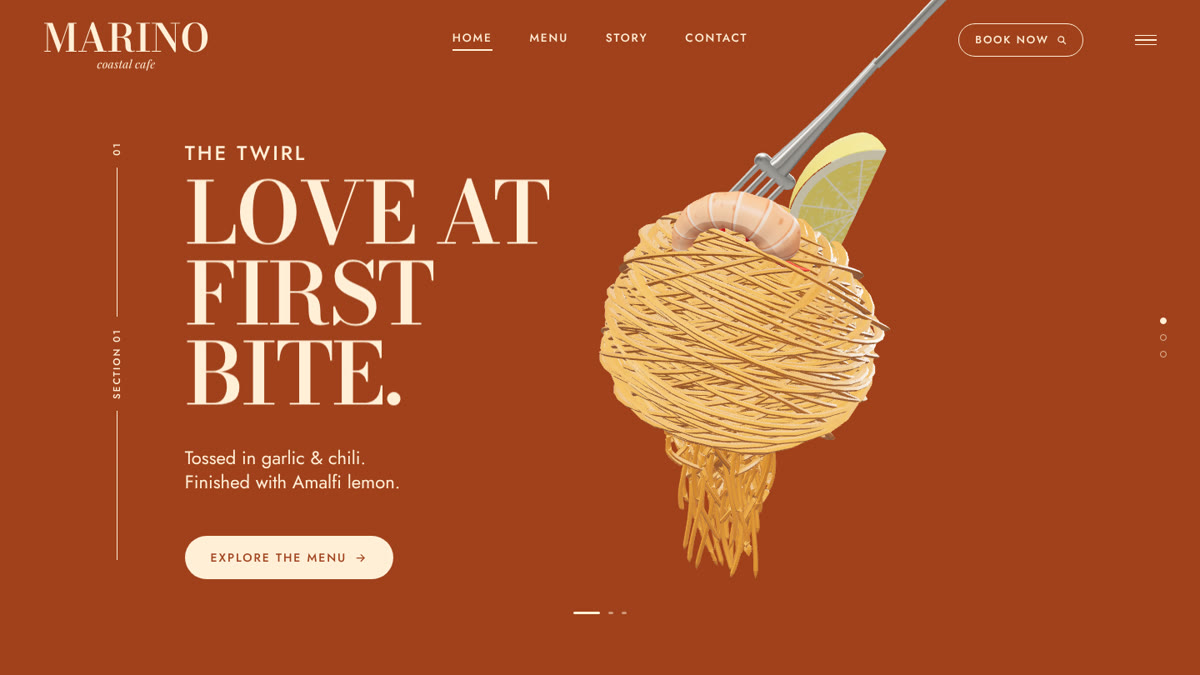
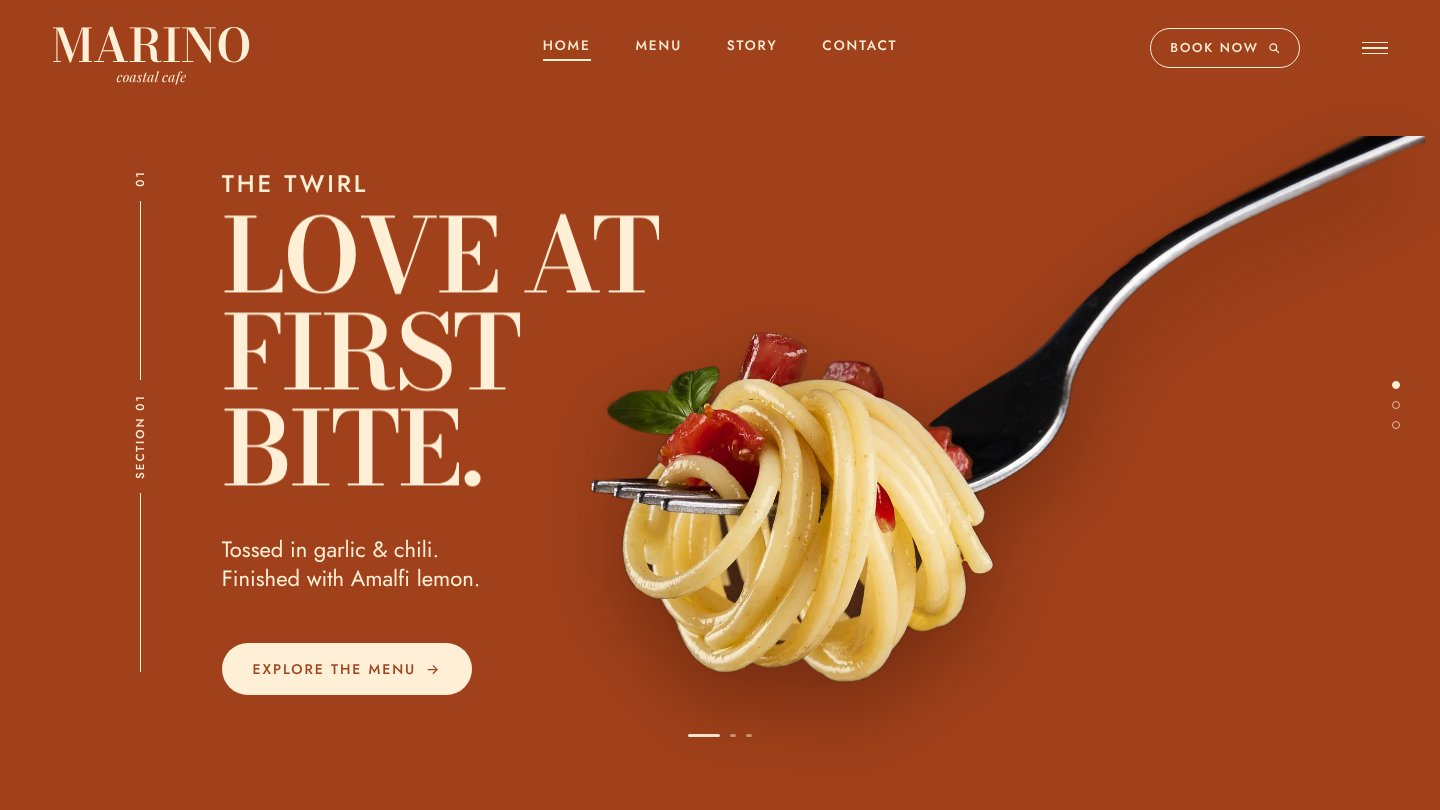
Use real food photos for the hero, ingredients and plate
- Hero: cut-out photo of spaghetti twirled on a fork, crossfading into the 3D spiral
- Ingredient dance: photo cut-outs (prawns, lemon, chili, basil, garlic,
  parmesan, tomato) that follow the hidden 3D ingredients' choreography and
  swap behind the canvas when they pass behind the spiral
- Finale: plated shrimp pasta photo rises in as the spiral collapses
- Free Pexels photos, backgrounds removed with rembg, served as WebP
- Refresh preview screenshots and README credits

Claude-Session: https://claude.ai/code/session_01M4CF9GnhnwfkbJ78EoQsJo

Changed region(s): [[0.4008, 0.0, 0.9867, 0.8711], [0.8325, 0.0311, 0.8633, 0.0622]]

diff --git a/src/main.js b/src/main.js
@@ -9,6 +9,9 @@ import { ScrollTrigger } from 'gsap/ScrollTrigger';
 import Lenis from 'lenis';
 import { createScene, range, BEATS } from './three/scene.js';
 
+const photoUrls = import.meta.glob('./assets/img/*.webp', { eager: true, import: 'default' });
+const photo = (name) => photoUrls[`./assets/img/${name}.webp`];
+
 gsap.registerPlugin(ScrollTrigger);
 
 const $ = (s, el = document) => el.querySelector(s);
@@ -50,6 +53,7 @@ window.addEventListener('resize', () => {
 /* ------------------------------------------------------------------ */
 
 const intro = { v: 0 };
+const heroIntro = { v: 0 };
 
 function playIntro() {
   document.body.classList.remove('is-loading');
@@ -67,7 +71,7 @@ function playIntro() {
     .from('.hero__rail-line', { scaleY: 0, duration: 1.0, stagger: 0.12, ease: 'power2.inOut' }, 0.3)
     .from('.hero__rail span:not(.hero__rail-line)', { opacity: 0, duration: 0.6 }, 0.5)
     .fromTo('.hero__title .line > span', { yPercent: 105 }, { yPercent: 0, duration: 1.0, stagger: 0.12, ease: 'power4.out' }, 0.35)
-    .fromTo(canvas, { opacity: 0, filter: 'blur(14px)' }, { opacity: 1, filter: 'blur(0px)', duration: 1.3, ease: 'power2.out', clearProps: 'filter' }, 0.3)
+    .to(heroIntro, { v: 1, duration: 1.3, ease: 'power2.out' }, 0.3)
     .to(intro, { v: 1, duration: 1.6, ease: 'power3.out' }, 0.3)
     .from('.hero__lede', { opacity: 0, y: 16, filter: 'blur(6px)', duration: 0.8 }, 0.85)
     .from('.hero .pill', { opacity: 0, y: 16, filter: 'blur(6px)', duration: 0.8 }, 0.98)
@@ -101,7 +105,108 @@ const labels = $$('.label').map((el) => {
   return { el, path, side: el.dataset.side, target: el.dataset.target };
 });
 
-const css = (el, props) => Object.assign(el.style, props);
+/* Photo cut-outs ---------------------------------------------------- */
+
+const heroPhoto = $('.photo-hero');
+heroPhoto.src = photo('hero-twirl');
+const plateWrap = $('.photo-plate');
+$('img', plateWrap).src = photo('plate');
+const layers = { front: $('.photos--front'), back: $('.photos--back') };
+
+/**
+ * Which photo stands in for each 3D ingredient (in creation order per kind).
+ * w = width in the ingredient's local units, rot = base rotation (deg), flip = mirror.
+ */
+const SPRITES = {
+  shrimp: [
+    null, // the top shrimp sits out; three identical prawn stacks read as copy-paste
+    { src: 'prawns', w: 0.72, rot: 12, flip: true },
+    { src: 'prawns', w: 0.56, rot: -28 },
+  ],
+  lemon: [{ src: 'lemon', w: 0.72, rot: -18 }],
+  chili: [
+    { src: 'chili-2', w: 0.62, rot: -10 },
+    { src: 'chili', w: 0.48, rot: 35 },
+    { src: 'chili-2', w: 0.5, rot: 140, flip: true },
+  ],
+  tomato: [
+    { src: 'tomato', w: 0.34, rot: 0 },
+    { src: 'tomato', w: 0.3, rot: 40 },
+    { src: 'tomato', w: 0.28, rot: -30 },
+  ],
+  garlic: [
+    { src: 'garlic', w: 0.42, rot: 10 },
+    { src: 'garlic', w: 0.3, rot: -25 },
+  ],
+  basil: [
+    { src: 'basil', w: 0.55, rot: -20 },
+    { src: 'basil-2', w: 0.34, rot: 25 },
+  ],
+  parmesan: [{ src: 'parmesan', w: 0.5, rot: -12 }],
+};
+const SPRITE_PX = 200; // base CSS width; each frame scales from this
+
+const kindCount = {};
+const sprites = scene.screenSprites().map((sp) => {
+  const n = (kindCount[sp.kind] = (kindCount[sp.kind] ?? -1) + 1);
+  const cfg = SPRITES[sp.kind]?.[n];
+  if (!cfg) return null;
+  const img = new Image();
+  img.src = photo(cfg.src);
+  img.alt = '';
+  img.decoding = 'async';
+  img.className = 'sprite';
+  img.style.width = `${SPRITE_PX}px`;
+  layers.front.appendChild(img);
+  return { img, cfg, front: true };
+});
+
+function updatePhotos(p, time) {
+  // 01 · hero forkful: lifts, swells and dissolves into the 3D spiral
+  const heroGo = ease(range(p, 0.015, 0.09));
+  const bob = Math.sin(time * 0.9) * 6 * (1 - heroGo);
+  const blur = (1 - heroIntro.v) * 14 + heroGo * 8;
+  css(heroPhoto, {
+    opacity: heroIntro.v * (1 - heroGo),
+    visibility: heroGo >= 1 ? 'hidden' : '',
+    filter: blur > 0.05 ? `blur(${blur}px)` : '',
+    transform: `translate3d(0, calc(-50% + ${bob - heroGo * 120 + (1 - heroIntro.v) * 30}px), 0) rotate(${heroGo * -14}deg) scale(${1 + heroGo * 0.35})`,
+  });
+
+  // The 3D spiral only lives between the hero and the plate
+  const glIn = range(p, 0.06, 0.13);
+  const glOut = range(p, 0.64, 0.71);
+  canvas.style.opacity = Math.min(glIn, 1 - glOut);
+
+  // 02 · ingredient cut-outs ride the 3D choreography
+  const alpha = ease(range(p, 0.1, 0.2)) * (1 - range(p, 0.63, 0.7));
+  const poses = scene.screenSprites();
+  sprites.forEach((s, i) => {
+    if (!s) return;
+    const sp = poses[i];
+    if (alpha <= 0.001 || sp.px <= 0.01) {
+      s.img.style.opacity = 0;
+      return;
+    }
+    if (sp.front !== s.front) {
+      s.front = sp.front;
+      (s.front ? layers.front : layers.back).appendChild(s.img);
+    }
+    const k = (s.cfg.w * sp.px) / SPRITE_PX;
+    const rot = s.cfg.rot + ((sp.rot * 180) / Math.PI) * 0.35 + Math.sin(time * 0.6 + sp.seed * 9) * 4;
+    s.img.style.opacity = alpha;
+    s.img.style.transform = `translate3d(${sp.x}px, ${sp.y}px, 0) translate(-50%, -50%) rotate(${rot}deg) scale(${s.cfg.flip ? -k : k}, ${k})`;
+  });
+
+  // 03 · the plated dish rises in as the spiral collapses
+  const plateIn = ease(range(p, 0.65, 0.8));
+  plateWrap.style.opacity = plateIn;
+  plateWrap.style.transform = `translate(-50%, -50%) translateY(${(1 - plateIn) * 45}vh) rotate(${(1 - plateIn) * -50 + Math.sin(time * 0.25) * 2}deg) scale(${0.8 + plateIn * 0.2})`;
+}
+
+function css(el, props) {
+  Object.assign(el.style, props);
+}
 const pt = { x: 0, y: 0 };
 let lastTheme = '';
 let lastDot = -1;
@@ -185,6 +290,7 @@ gsap.ticker.add((time) => {
   smooth += (progress - smooth) * 0.14;
   if (Math.abs(progress - smooth) < 0.00005) smooth = progress;
   scene.update(smooth, time, intro.v);
+  updatePhotos(smooth, time);
   updateDom(smooth);
 });
 
@@ -199,6 +305,7 @@ window.__marino = {
   },
   skipIntro() {
     intro.v = 1;
+    heroIntro.v = 1;
   },
 };
 

diff --git a/src/style.css b/src/style.css
@@ -75,6 +75,73 @@ ul {
   display: block;
 }
 
+/* ---------- Photo layers ---------- */
+
+.photos {
+  position: fixed;
+  inset: 0;
+  z-index: 2;
+  pointer-events: none;
+  overflow: hidden;
+}
+
+.photos img {
+  display: block;
+  user-select: none;
+}
+
+.photo-hero {
+  position: absolute;
+  left: 41%;
+  top: 50%;
+  width: min(58vw, 118vh);
+  height: auto;
+  transform-origin: 30% 60%;
+  filter: drop-shadow(0 30px 40px rgba(60, 18, 4, 0.45));
+  will-change: transform, opacity;
+}
+
+.photo-plate {
+  position: absolute;
+  left: 50%;
+  top: 52%;
+  width: min(56vh, 78vw);
+  aspect-ratio: 1;
+  opacity: 0;
+  will-change: transform, opacity;
+}
+
+.photo-plate::before {
+  /* soft contact shadow under the plate */
+  content: '';
+  position: absolute;
+  inset: 6% -4% -8% -4%;
+  border-radius: 50%;
+  background: radial-gradient(closest-side, rgba(70, 38, 14, 0.38), rgba(70, 38, 14, 0) 100%);
+  transform: translateY(6%);
+}
+
+.photo-plate img {
+  position: relative;
+  width: 100%;
+  height: 100%;
+  border-radius: 50%;
+  box-shadow:
+    0 0 0 1px rgba(255, 255, 255, 0.6) inset,
+    0 2px 0 rgba(255, 255, 255, 0.7),
+    0 18px 30px -12px rgba(60, 30, 10, 0.35);
+}
+
+.sprite {
+  position: absolute;
+  left: 0;
+  top: 0;
+  height: auto;
+  opacity: 0;
+  will-change: transform, opacity;
+  filter: drop-shadow(0 14px 16px rgba(80, 40, 10, 0.22));
+}
+
 #leaders {
   position: fixed;
   inset: 0;
@@ -605,6 +672,17 @@ ul {
 
   .finale__cta {
     top: 74%;
+  }
+
+  .photo-hero {
+    left: 4%;
+    top: 68%;
+    width: 112vw;
+  }
+
+  .photo-plate {
+    top: 50%;
+    width: 86vw;
   }
 }
 

diff --git a/src/three/scene.js b/src/three/scene.js
@@ -169,7 +169,9 @@ export function createScene(canvas) {
 
       const s = lerp(lerp(keys.H[6], b[6], spreadT), keys.P[6], plateT);
       obj.scale.setScalar(Math.max(0.0001, s));
-      obj.visible = s > 0.001;
+      // Photo cut-outs (DOM) stand in for everything except the chili flakes.
+      obj.visible = s > 0.001 && it.kind === 'flake';
+      it.scale = s;
     }
 
     renderer.render(scene, camera);
@@ -186,5 +188,27 @@ export function createScene(canvas) {
     return out;
   }
 
-  return { update, resize, project };
+  /**
+   * Screen-space pose of every ingredient, for the photo cut-outs.
+   * px = CSS pixels per local unit of the ingredient (dish scale × item scale × perspective).
+   */
+  const sprites = ingredients.items.map((it) => ({ kind: it.kind, x: 0, y: 0, px: 0, rot: 0, front: true, seed: it.seed }));
+  const halfTan = Math.tan(THREE.MathUtils.degToRad(camera.fov / 2));
+  function screenSprites() {
+    const dishZ = dish.getWorldPosition(tmpB).z;
+    ingredients.items.forEach((it, i) => {
+      const sp = sprites[i];
+      it.obj.getWorldPosition(tmpA);
+      const dist = camera.position.z - tmpA.z;
+      sp.front = tmpA.z >= dishZ;
+      sp.px = (dish.scale.x * (it.scale ?? 0) * window.innerHeight) / (2 * dist * halfTan);
+      tmpA.project(camera);
+      sp.x = (tmpA.x * 0.5 + 0.5) * window.innerWidth;
+      sp.y = (-tmpA.y * 0.5 + 0.5) * window.innerHeight;
+      sp.rot = it.obj.rotation.z + dish.rotation.z;
+    });
+    return sprites;
+  }
+
+  return { update, resize, project, screenSprites };
 }

diff --git a/src/three/ingredients.js b/src/three/ingredients.js
@@ -427,20 +427,20 @@ export function createIngredients() {
 
   const items = [];
   const named = {};
-  const add = (obj, keys, name) => {
-    items.push({ obj, keys, seed: Math.random() });
+  const add = (obj, keys, name, kind = name) => {
+    items.push({ obj, keys, seed: Math.random(), kind });
     if (name && !named[name]) named[name] = obj;
     return obj;
   };
 
-  SHRIMP.forEach((k, i) => add(createShrimp(shrimpMat), k, i === 1 ? 'shrimp' : null));
+  SHRIMP.forEach((k, i) => add(createShrimp(shrimpMat), k, i === 1 ? 'shrimp' : null, 'shrimp'));
   add(createLemon(), LEMON, 'lemon');
   CHILI.forEach((k) => add(createChili(redMat, stemMat), k, 'chili'));
   TOMATO.forEach((k) => add(createTomato(tomatoSkin, tomatoCut), k, 'tomato'));
   GARLIC.forEach((k) => add(createGarlic(garlicMat), k, 'garlic'));
   BASIL.forEach((k) => add(createBasil(basilMat), k, 'basil'));
   PARM.forEach((k) => add(createShaving(parmMat), k, 'parmesan'));
-  FLAKES.forEach((k) => add(createFlake(flakeMat), k));
+  FLAKES.forEach((k) => add(createFlake(flakeMat), k, null, 'flake'));
   const fork = add(createFork(), FORK, 'fork');
   const plate = add(createPlate(), PLATE, 'plate');
   items.find((it) => it.obj === fork).rigid = true;

diff --git a/index.html b/index.html
@@ -9,8 +9,19 @@
     <link rel="icon" href="/favicon.svg" type="image/svg+xml" />
   </head>
   <body class="is-loading">
-    <!-- Fixed WebGL stage: the dish lives here through the whole story -->
+    <!-- Photo cut-outs that sit behind the pasta spiral -->
+    <div class="photos photos--back" aria-hidden="true"></div>
+
+    <!-- Fixed WebGL stage: the 3D pasta spiral between the hero and the plate -->
     <canvas id="webgl" aria-hidden="true"></canvas>
+
+    <!-- Photo layer: hero forkful, floating ingredients, plated dish -->
+    <div class="photos photos--front" aria-hidden="true">
+      <img class="photo-hero" alt="" width="1600" height="1048" fetchpriority="high" />
+      <div class="photo-plate">
+        <img alt="" width="1200" height="1200" loading="eager" />
+      </div>
+    </div>
 
     <!-- Leader lines for the ingredient labels (drawn in JS) -->
     <svg id="leaders" aria-hidden="true"></svg>

diff --git a/README.md b/README.md
@@ -1,8 +1,8 @@
 # Marino Cafe 3D
 
-A scroll-driven 3D landing page for Marino Cafe. A forkful of shrimp linguine
-unwinds into a spiral, its ingredients float out with labels, then everything
-settles onto a plate.
+A scroll-driven landing page for Marino Cafe. A real forkful of spaghetti
+dissolves into a 3D pasta spiral, photo cut-outs of the ingredients float around
+it with labels, then a plated shrimp pasta rises in.
 
 | Hero | Ingredient dance | The masterpiece |
 | --- | --- | --- |
@@ -11,10 +11,11 @@ settles onto a plate.
 ## Stack
 
 - [Vite](https://vite.dev) for dev server and build
-- [Three.js](https://threejs.org) for the dish. Everything is modelled in code
-  (no image or model assets): the pasta is ~170 GPU-animated strands that morph
-  between three shapes, and the prawns, lemon, chili, tomato, garlic, basil,
-  parmesan, fork and plate are procedural meshes with canvas textures.
+- [Three.js](https://threejs.org) for the pasta spiral: ~170 GPU-animated strands
+  that morph between three shapes. The procedural ingredient meshes are still in
+  the scene but hidden; they drive the choreography that the photo cut-outs follow.
+- Photo cut-outs (WebP with transparency, `src/assets/img/`) for the hero forkful,
+  the floating ingredients and the plated dish. See *Photos* below.
 - [GSAP](https://gsap.com) + ScrollTrigger for the load-in timeline and scroll progress
 - [Lenis](https://lenis.darkroom.engineering) for smooth scrolling
 - Fonts via Fontsource: Bodoni Moda (display), Jost (UI), Playfair Display italic (labels)
@@ -48,5 +49,26 @@ Files:
 - `src/three/ingredients.js`: procedural ingredients and their hero / spiral / plate poses
 - `src/three/scene.js`: renderer, lights, responsive layout and per-frame blending
 - `src/main.js`: intro timeline, scroll wiring, nav/title/label updates and leader lines
+
+- `updatePhotos()` in `src/main.js`: hero photo fade, 3D canvas crossfade, ingredient
+  cut-outs (projected from the hidden 3D ingredients via `scene.screenSprites()`, and
+  moved behind the canvas when they swing behind the spiral) and the plate rise.
+
+## Photos
+
+Free photos from [Pexels](https://www.pexels.com/license/), backgrounds removed with
+[rembg](https://github.com/danielgatis/rembg) (u2net / isnet-general-use):
+
+| File | Pexels photo |
+| --- | --- |
+| `hero-twirl.webp` | [Spaghetti on silver fork](https://www.pexels.com/photo/12039747/) |
+| `plate.webp` | [Pasta with mozzarella and shrimps](https://www.pexels.com/photo/7474118/) (circle crop) |
+| `prawns.webp` | [Peeled prawns](https://www.pexels.com/photo/10487767/) |
+| `lemon.webp` | [Sliced lemon on white](https://www.pexels.com/photo/1414110/) |
+| `chili.webp`, `chili-2.webp` | [Raw chili peppers](https://www.pexels.com/photo/7215171/) |
+| `basil.webp`, `basil-2.webp` | [Green leaves on white](https://www.pexels.com/photo/5498004/) |
+| `garlic.webp` | [Garlic and cloves](https://www.pexels.com/photo/4022126/) |
+| `parmesan.webp` | [Cheese beside a grater](https://www.pexels.com/photo/13656905/) |
+| `tomato.webp` | [Tomatoes on the vine](https://www.pexels.com/photo/28971157/) |
 
 `window.__marino.setProgress(0.42)` jumps to any point in the story, which is handy for screenshots.
